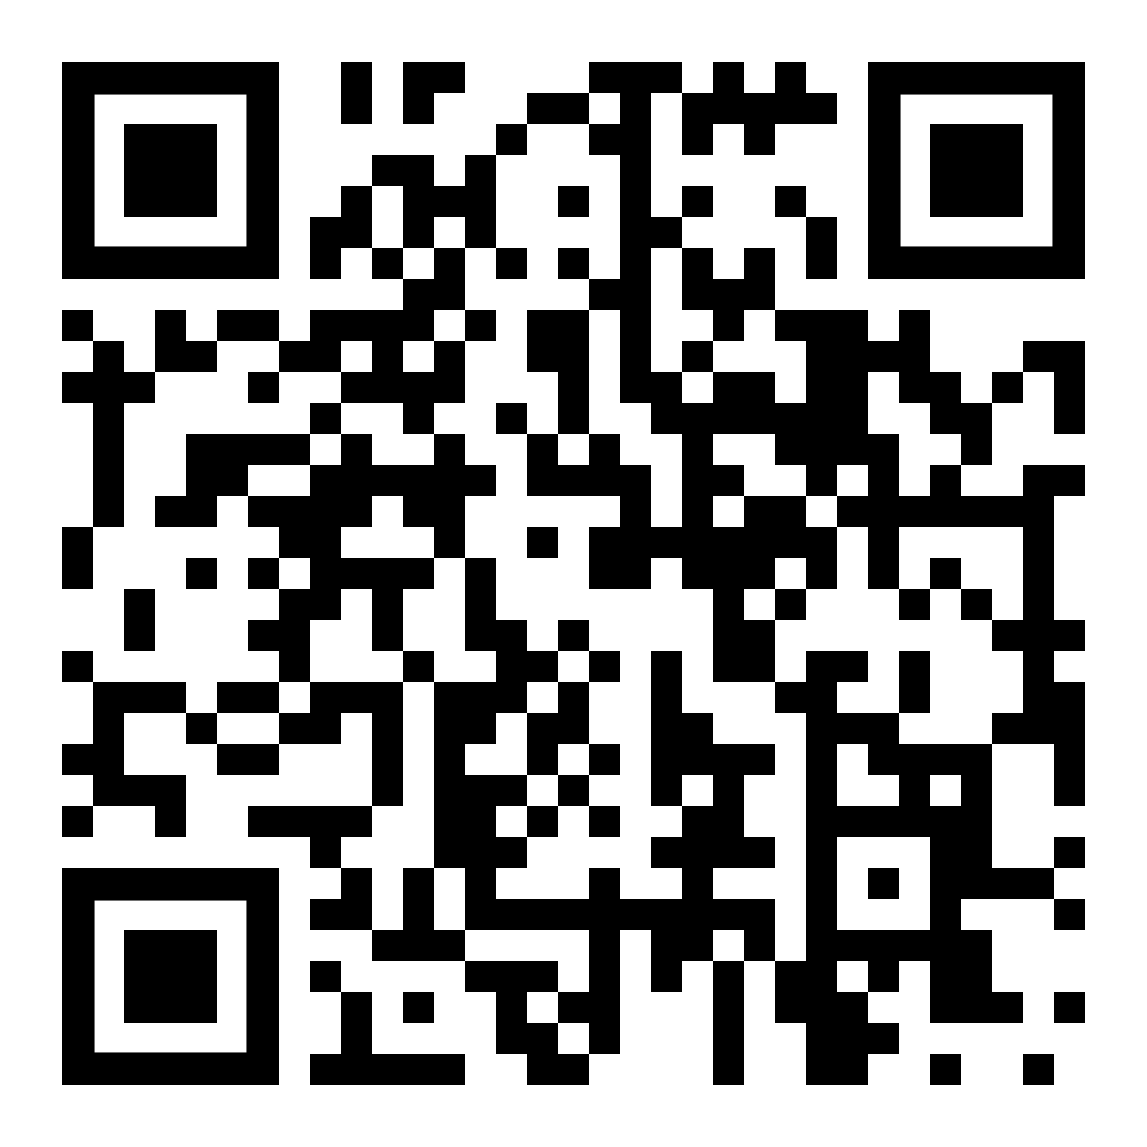
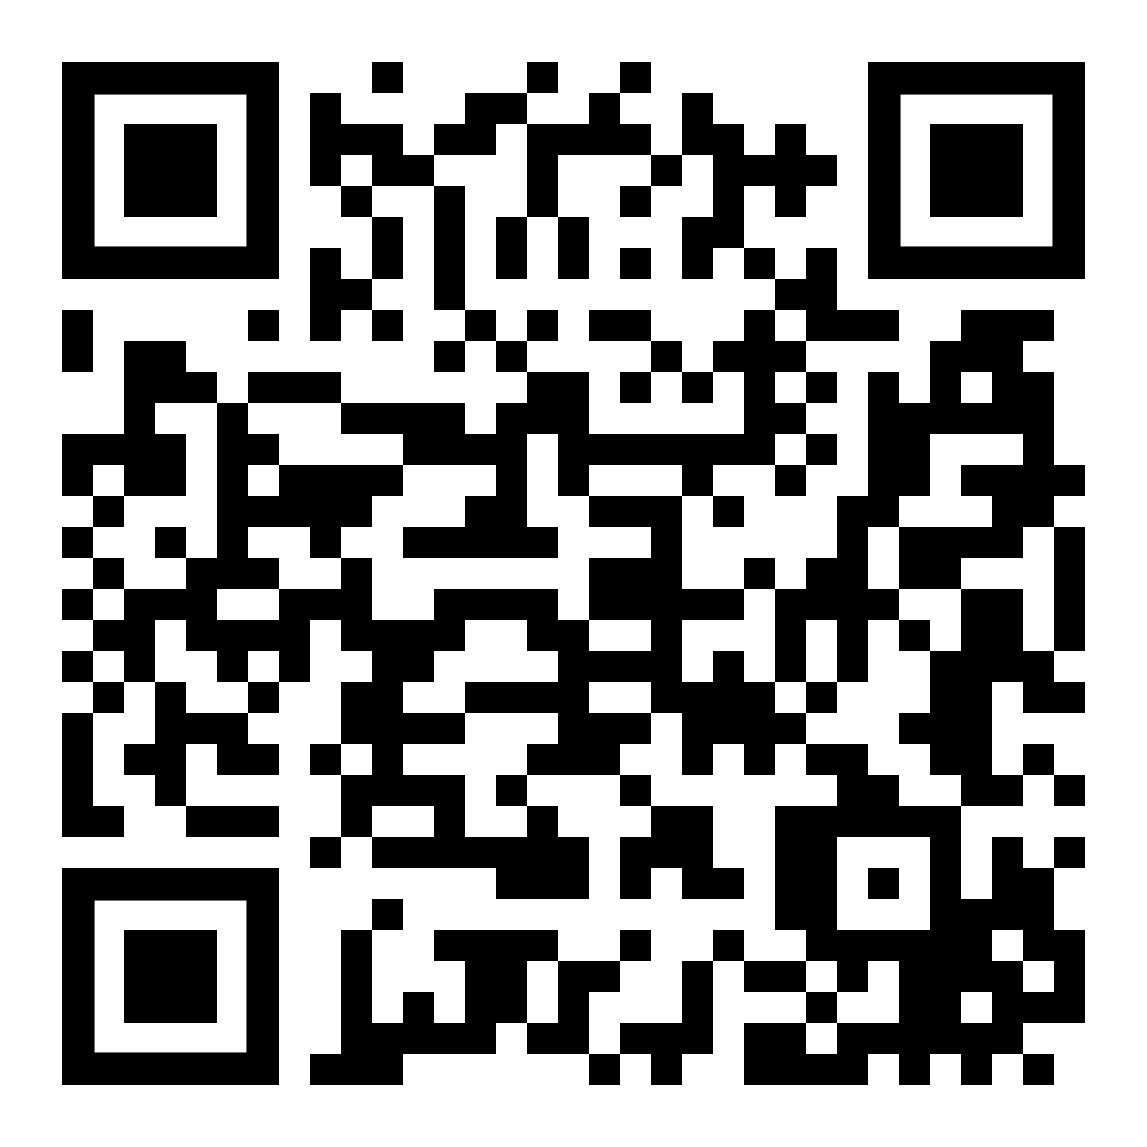
update link

diff --git a/midousuji-tech/index.html b/midousuji-tech/index.html
@@ -12,7 +12,7 @@
 <h2 id="%E3%82%AA%E3%83%AC%E3%82%AA%E3%83%AC%E3%82%B3%E3%83%9E%E3%83%B3%E3%83%89%E3%82%92task%E3%81%A7%E7%AE%A1%E7%90%86%E3%81%97%E3%81%9F%E3%81%A4%E3%81%84%E3%81%A7%E3%81%AB%E8%87%AA%E5%B7%B1%E6%96%87%E6%9B%B8%E5%8C%96%E3%81%A8%E3%82%A4%E3%83%B3%E3%82%BF%E3%83%A9%E3%82%AF%E3%83%86%E3%82%A3%E3%83%96%E5%AE%9F%E8%A1%8C%E3%81%AB%E3%82%82%E5%AF%BE%E5%BF%9C%E3%81%97%E3%81%A6%E3%81%BF%E3%81%9F">オレオレコマンドをTaskで管理したついでに自己文書化とインタラクティブ実行にも対応してみた</h2>
 <p>Takafumi Miyanaga(<a href="https://x.com/orangekame3">@orangekame3</a>)</p>
 <p><img src="slide_qr.png" alt="" style="width:150px;" /><br />
-↑<a href="https://www.orangekame3.net/LT/midousuji-tech/README.html">https://www.orangekame3.net/LT/midousuji-tech/README.html</a></p>
+↑<a href="https://www.orangekame3.net/LT/midousuji-tech/">https://www.orangekame3.net/LT/midousuji-tech/</a></p>
 <footer>@2024 #midosuji_tech</footer>
 </section>
 </foreignObject></svg><svg data-marpit-svg="" viewBox="0 0 1280 720"><foreignObject width="1280" height="720"><section id="2" data-class="invert" data-paginate="true" data-footer="@2024 #midosuji_tech" data-theme="gaia" lang="ja-JP" class="invert" data-marpit-pagination="2" style="--class:invert;--paginate:true;--footer:@2024 #midosuji_tech;--theme:gaia;" data-marpit-pagination-total="23">

diff --git a/midousuji-tech/README.md b/midousuji-tech/README.md
@@ -11,7 +11,7 @@ footer: "@2024 #midosuji_tech"
 Takafumi Miyanaga([@orangekame3](https://x.com/orangekame3))
 
 ![w:150](slide_qr.png)
-↑https://www.orangekame3.net/LT/midousuji-tech/README.html
+↑https://www.orangekame3.net/LT/midousuji-tech/
 
 ---
 
